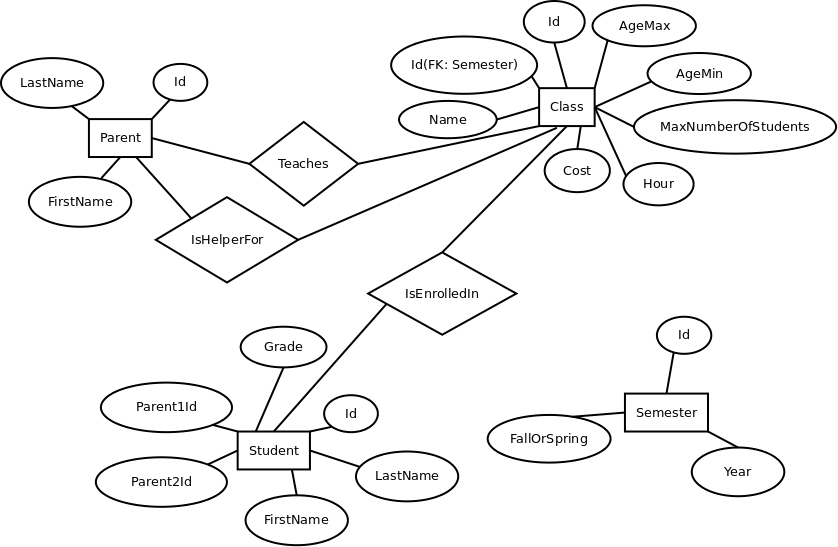
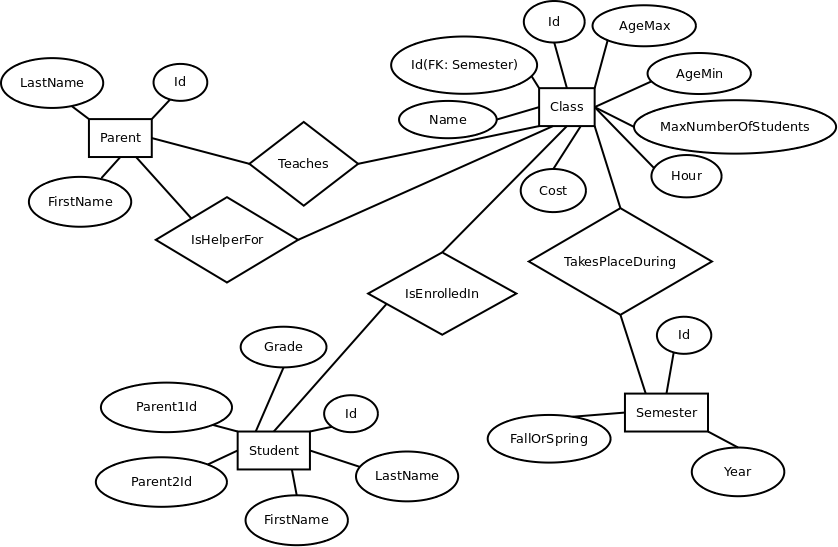
Added a transaction table between class and semester

diff --git a/Source/Model/Schema.py b/Source/Model/Schema.py
@@ -5,7 +5,7 @@
 # 
 #
 
-ModelName = 'test'
+ModelName = 'test.db'
 
 TableCreationQueries = ["""
 CREATE TABLE Semester(
@@ -63,5 +63,13 @@ CREATE TABLE IsAHelperFor(
   PRIMARY KEY(ParentId, ClassId),
   FOREIGN KEY(ParentId) REFERENCES Parent(ROWID),
   FOREIGN KEY(ClassId) REFERENCES Class(ROWID)
+);
+""", """
+CREATE TABLE TakesPlaceDuring(
+  ClassId INTEGER,
+  SemesterId INTEGER,
+  PRIMARY KEY(ClassId, SemesterId),
+  FOREIGN KEY(ClassId) REFERENCES Class(ROWID),
+  FOREIGN KEY(SemesterId) REFERENCES Semester(ROWID)
 );
 """]
